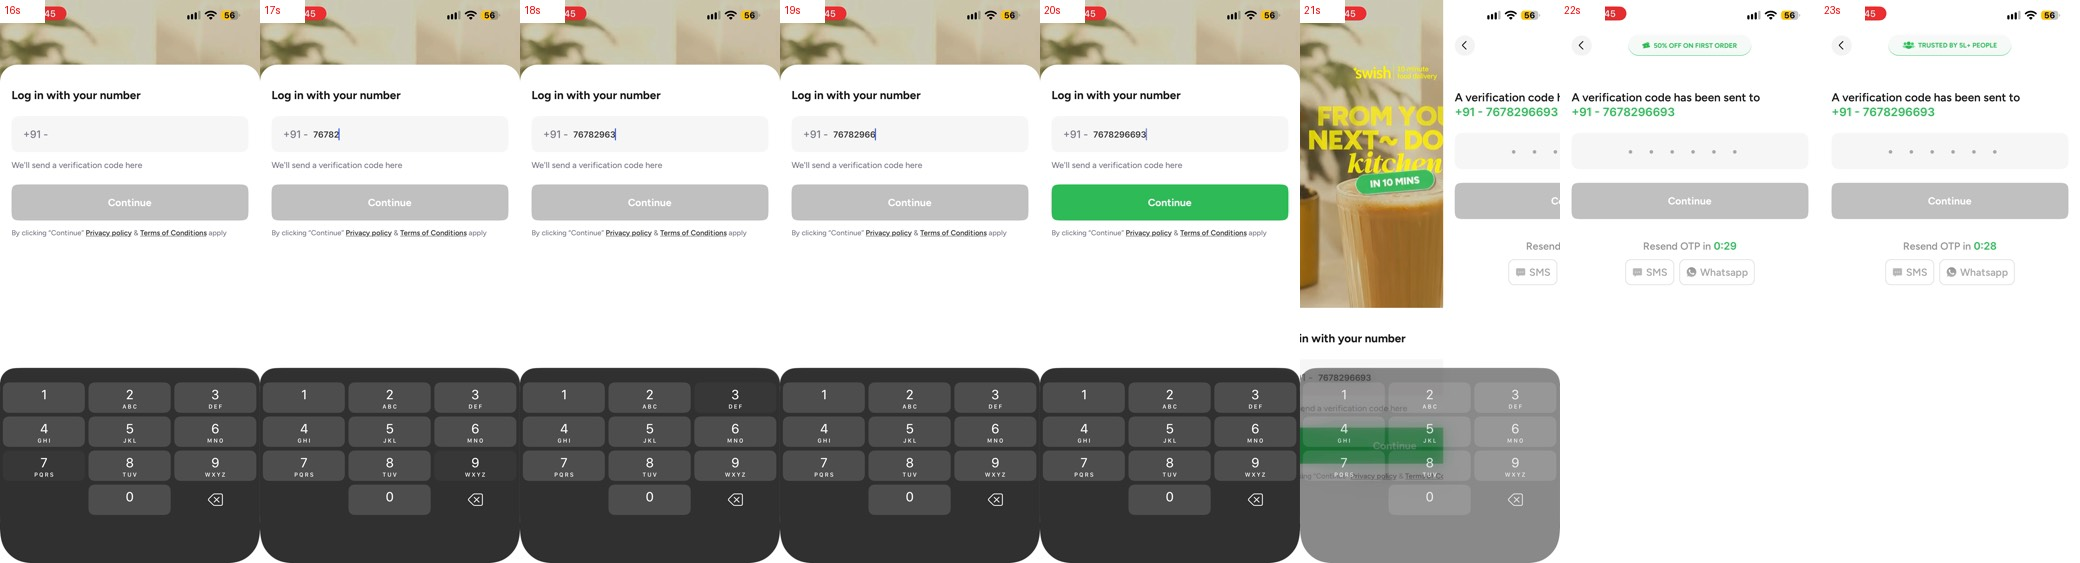
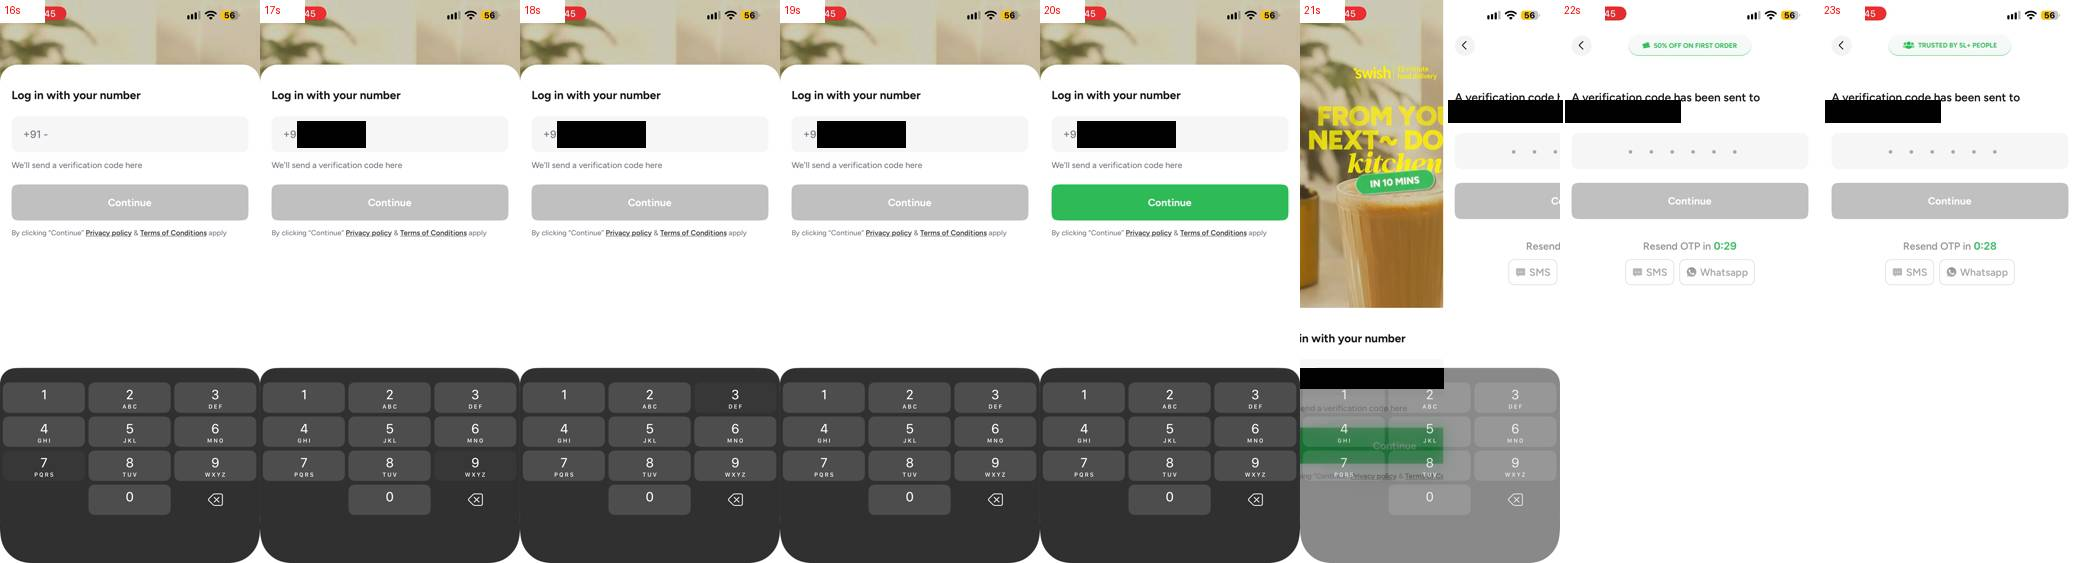
docs: mask phone and OTP in Swish study
Claude-Session: https://claude.ai/code/session_01WJ2UV4cYFHcSCd2yP2JiPF

diff --git a/docs/research/swish-onboarding/swish-onboarding.md b/docs/research/swish-onboarding/swish-onboarding.md
@@ -15,7 +15,7 @@ Store -> splash -> hero + login sheet -> (iOS tracking ask) -> location pre-ask 
 | 5 | 7-10 s | Location pre-ask sheet | Sheet with a pin-on-map drawing, "Allow Location Access", one reason: "to find the kitchen nearest to you and deliver to your doorstep" | Skip, Continue (green, equal width) | A soft ask before the system ask, with the reason. The user skipped here. |
 | 6 | 11-12 s | iOS notifications ask | System alert over the login sheet | Don't allow, Allow | Asked before any value. Do not copy. |
 | 7 | 13-20 s | Number | Login sheet rises with the number pad; number typed as 10 digits, no space; Continue turns green only at 10 digits | Continue | Button sleeps until the field is valid (same rule as ours). |
-| 8 | 21-27 s | Code | Full white page: back arrow; a rotating trust pill on top ("50% off on first order", then "Trusted by 5L+ people"); "A verification code has been sent to +91-7678296693" (number in green); one field with 6 dots; Continue; "Resend OTP in 0:29" countdown; SMS and WhatsApp resend chips; the code is auto-filled from Messages | Continue, resend by SMS or WhatsApp, back | Trust and offer sit on the wait screen. Two resend channels. |
+| 8 | 21-27 s | Code | Full white page: back arrow; a rotating trust pill on top ("50% off on first order", then "Trusted by 5L+ people"); "A verification code has been sent to [phone masked]" (number in green); one field with 6 dots; Continue; "Resend OTP in 0:29" countdown; SMS and WhatsApp resend chips; the code is auto-filled from Messages | Continue, resend by SMS or WhatsApp, back | Trust and offer sit on the wait screen. Two resend channels. |
 | 9 | 28-37 s | "Location permission is off" | A sheet over a grey home skeleton: icon, "Location permission is off", "Please enable location permission for a better delivery experience", Continue; below: "Select your address" + View all, the saved "Office" row, "Search your location" button | Turn on location, pick a saved address, search | Never a dead end: three ways forward on one sheet. |
 | 10 | 38-39 s | "Select a location" | Full page: search field, "Use current location" button, "Saved Delivery Address" list | Search, current location, saved row | The same three ways as a page. |
 | 11 | 40-44 s | Pre-ask again, then iOS location ask | The same sheet as frame 5, then the system alert | Skip, Continue | The soft ask appears again when the user asks for current location. |
